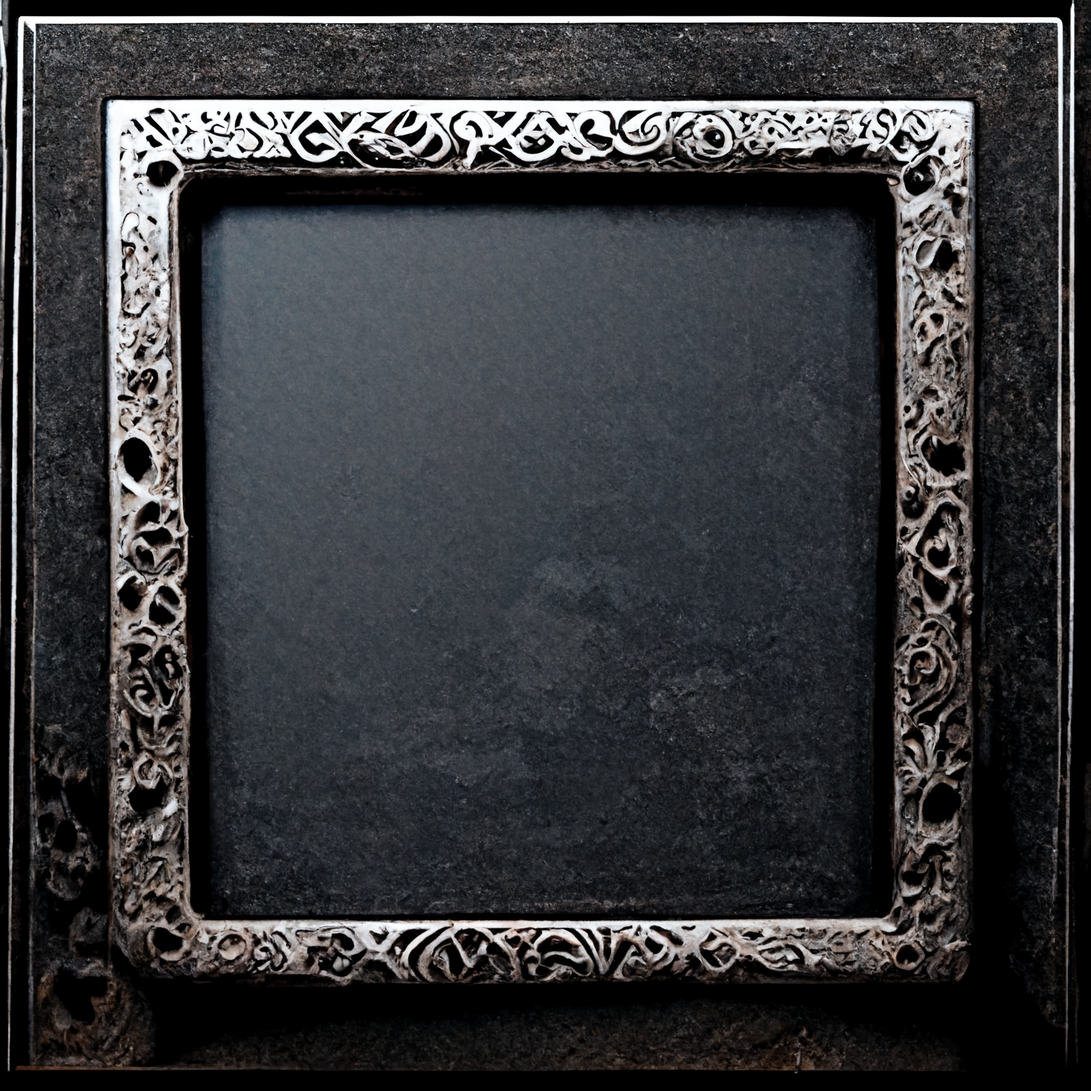
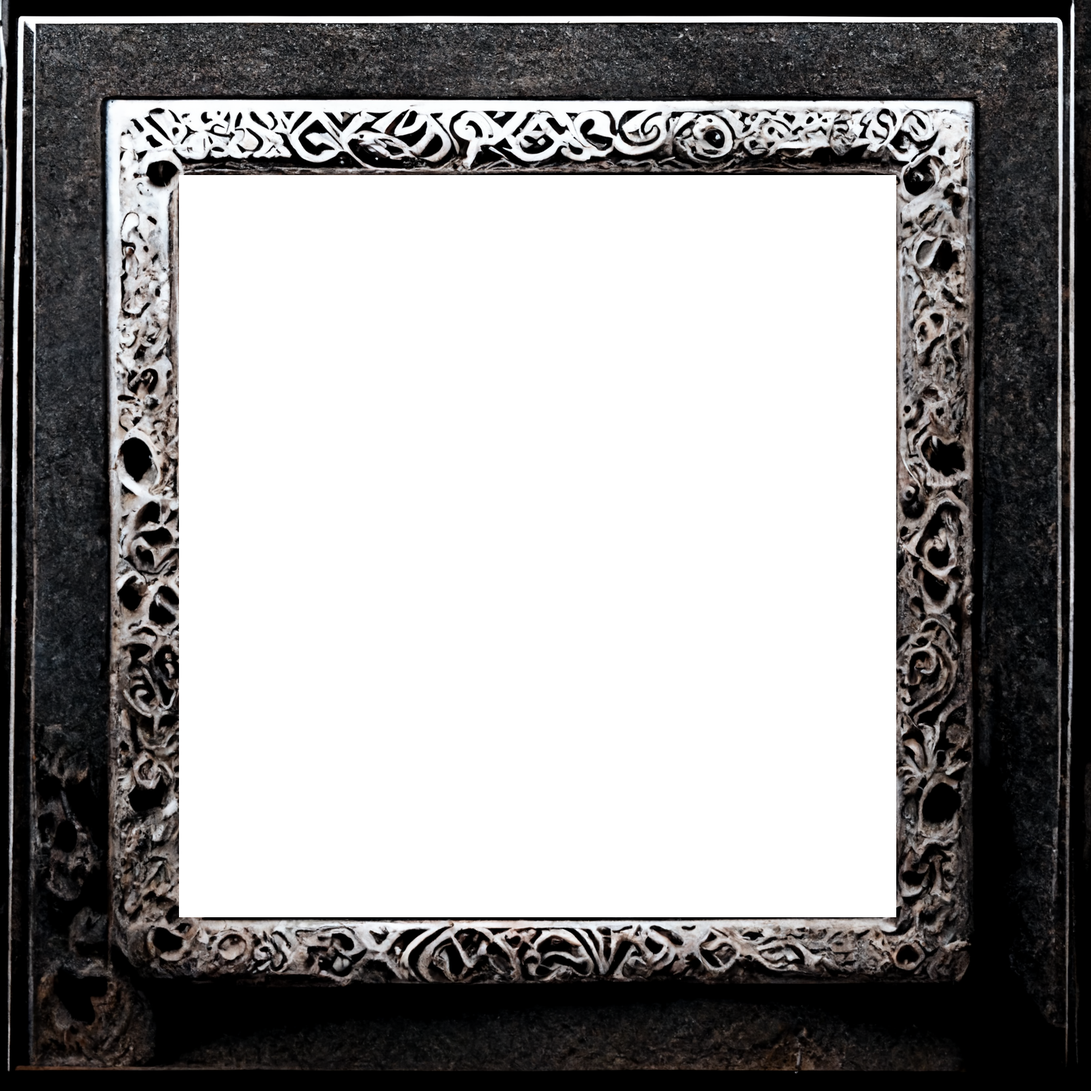
Ghost Image Style Changes

diff --git a/client/src/Containers/Game/GhostView.module.css b/client/src/Containers/Game/GhostView.module.css
@@ -1,8 +1,9 @@
 .ghostViewContainer {
     width: 80%;
-    margin: auto;
-    position: relative;
     height: 70vh;
+    margin: auto;
+    margin-left: 10%;
+    margin-bottom: 15%;
     /* bottom: -15%;
    left: z;
     /* background: url("../../assets/images/image_118_smoke.png") no-repeat center;
@@ -10,43 +11,44 @@
     font-family: 'Bebas Neue', sans-serif;
 }
 .mirrorImage {
-    position: absolute;
+    display: inline;
     width: 100%;
     min-width: 300px;
+    z-index: 2;
 }
 .mirrorContainer {
-    position: relative;
-    top: 45%;
-    left: 6%;
     display: flex;
     flex-direction: column;
     align-items: center;
     justify-content: center;
 }
 .targetName {
-    position: absolute;
-    bottom: -300px;
     font-size: 35px;
     font-weight: bold;
     min-height: 40px;
 }
+.imageContainer {
+    position: relative;
+    display: flex;
+    flex-direction: column;
+    align-items: center;
+    justify-content: center;
+}
 .ghostImage {
-    width: 40%;
+    width: 70%;
+    min-width: 200px;
     position: absolute;
-    min-width: 150px;
     /* position: relative; */
     /* top: 18%; */
     /* border-top: 70px rgba(232, 232, 232, 0.605) solid;
     border-bottom: 70px rgba(232, 232, 232, 0.605) solid; */
 }
 .ghostButtonControl {
-    position: relative;
-    bottom: -340px;
     display: flex;
     flex-direction: row;
     justify-content: center;
     align-items: center;
-    min-height: 50px;
+    min-height: 5%;
     width: 100%;
 }
 .sendButton {

diff --git a/client/src/Containers/Game/GhostView.tsx b/client/src/Containers/Game/GhostView.tsx
@@ -1,6 +1,6 @@
 import React, { useState } from "react";
 import { GameData, Player } from "../../Types/Types";
-import { GhostImages, MirrorImage } from "../../assets/images/Images";
+import { GhostImages, UpdatedMirrorImage } from "../../assets/images/Images";
 import GenericButton from "../../Components/GenericButton";
 import { useModal } from "../../ModalContext";
 import { getData, postData } from "../../ApiHelper";
@@ -48,9 +48,11 @@ const GhostView = ({ gameData }: { gameData: GameData }) => {
 		<React.Fragment>
 			<div className={styles.ghostViewContainer}>
 				<div className={styles.mirrorContainer}>
+					<div className={styles.imageContainer}>
+						<img src={UpdatedMirrorImage} className={styles.mirrorImage} />
+						<img className={styles.ghostImage} src={images[imageIndex]} />
+					</div>
 					{<p className={styles.targetName}>{targetName}</p>}
-					<img src={MirrorImage} className={styles.mirrorImage} />
-					<img className={styles.ghostImage} src={images[imageIndex]} />
 					{showControls && <div className={styles.ghostButtonControl}>
 						{imageIndex > 0 && <GenericButton
 							className={styles.arrowButton}

diff --git a/client/src/Containers/CreatePlayer/Index.tsx b/client/src/Containers/CreatePlayer/Index.tsx
@@ -71,7 +71,9 @@ function CreatePlayer() {
 			<form onSubmit={onSubmit}>
 				<input
 					className={CreatePlayerCSS["user-selection-input"]}
-					name="name" 
+					name="name"
+					maxLength={20}
+					minLength={1} 
 					placeholder="Enter Character Name" 
 					onChange={e => setName(e.target.value)} 
 				/>

diff --git a/client/src/Containers/CreateLobby/Index.tsx b/client/src/Containers/CreateLobby/Index.tsx
@@ -71,6 +71,8 @@ function CreateLobby() {
 					<input
 						className={CreateLobbyCSS["user-selection-input"]}
 						name="name" 
+						maxLength={40}
+						minLength={1}
 						placeholder="Enter game name" 
 						onChange={e => setLobbyName(e.target.value)} />
 					<select
